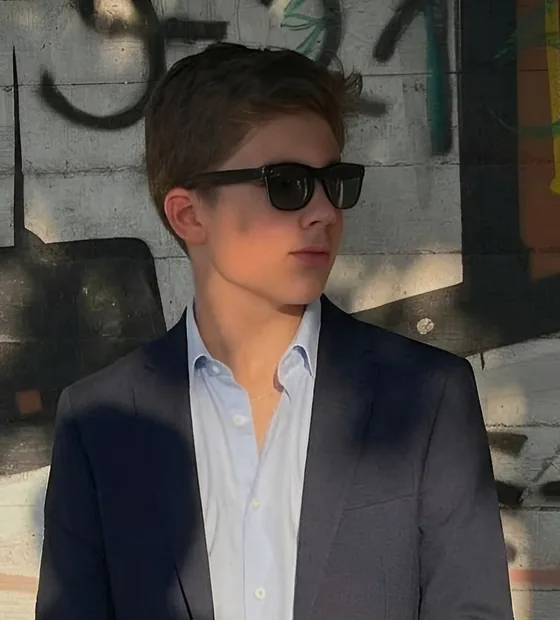
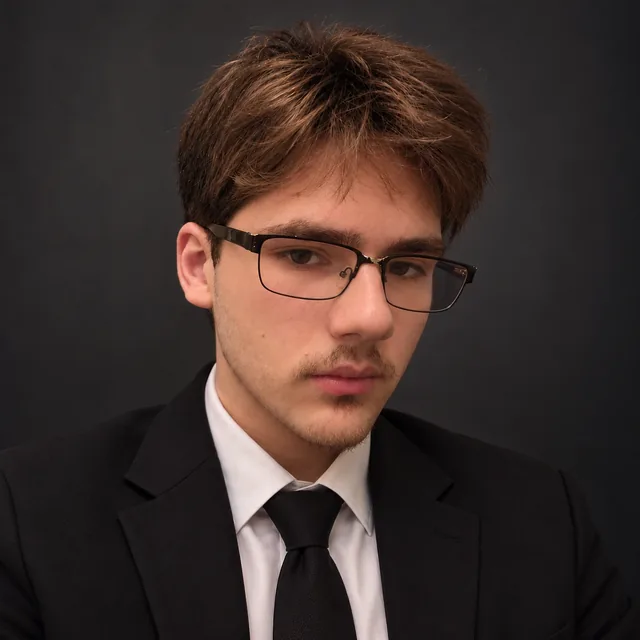
Replace portrait with new square photo and framed design

diff --git a/css/about.css b/css/about.css
@@ -59,20 +59,49 @@
 }
 
 .intro-photo-frame {
+    --bracket: 22px;
+    position: relative;
     width: clamp(140px, 22vw, 240px);
-    margin: 0;
+    margin: 0 12px 12px 0;
+}
+
+/* Offset accent outline behind the photo. */
+.intro-photo-frame::before {
+    content: "";
+    position: absolute;
+    inset: 12px -12px -12px 12px;
+    border: 2px solid var(--accent);
+    border-radius: 6px;
+    opacity: 0.6;
+}
+
+/* Terminal-style corner brackets (top-left, bottom-right). */
+.intro-photo-frame::after {
+    content: "";
+    position: absolute;
+    inset: -8px -20px -20px -8px;
+    z-index: 2;
+    pointer-events: none;
+    background:
+        linear-gradient(var(--accent), var(--accent)) top left / var(--bracket) 3px,
+        linear-gradient(var(--accent), var(--accent)) top left / 3px var(--bracket),
+        linear-gradient(var(--accent), var(--accent)) bottom right / var(--bracket) 3px,
+        linear-gradient(var(--accent), var(--accent)) bottom right / 3px var(--bracket);
+    background-repeat: no-repeat;
 }
 
 .intro-photo {
+    position: relative;
+    z-index: 1;
     display: block;
     width: 100%;
     height: auto;
     aspect-ratio: 1;
     object-fit: cover;
-    object-position: 52% 12%;
     border: 2px solid var(--line);
-    border-radius: 50%;
+    border-radius: 6px;
     box-sizing: border-box;
+    box-shadow: 0 12px 28px var(--nav-shadow-strong);
 }
 
 .intro-cta {

diff --git a/index.html b/index.html
@@ -23,7 +23,7 @@
     <link rel="preconnect" href="https://fonts.gstatic.com" crossorigin>
     <link href="https://fonts.googleapis.com/css2?family=JetBrains+Mono:wght@400;700&family=Noto+Sans+Georgian:wght@100..900&display=swap" rel="stylesheet">
     <link rel="stylesheet" href="css/nav.css?v=project-links-1">
-    <link rel="stylesheet" href="css/about.css?v=devops-about-1">
+    <link rel="stylesheet" href="css/about.css?v=square-photo-2">
     <link rel="stylesheet" href="css/skills.css?v=skills-about-1">
     <link rel="stylesheet" href="css/projects.css?v=heading-line-1">
     <link rel="stylesheet" href="css/experience.css?v=rento-1">    <link rel="icon" type="image/png" href="./images/images.png">
@@ -59,8 +59,8 @@
                         <img
                             class="intro-photo"
                             src="images/portfoliopic.jpeg"
-                            width="560"
-                            height="620"
+                            width="640"
+                            height="640"
                             fetchpriority="high"
                             alt="Portrait of Nikusha Avsajanishvili"
                             data-i18n-alt="portraitAlt"
